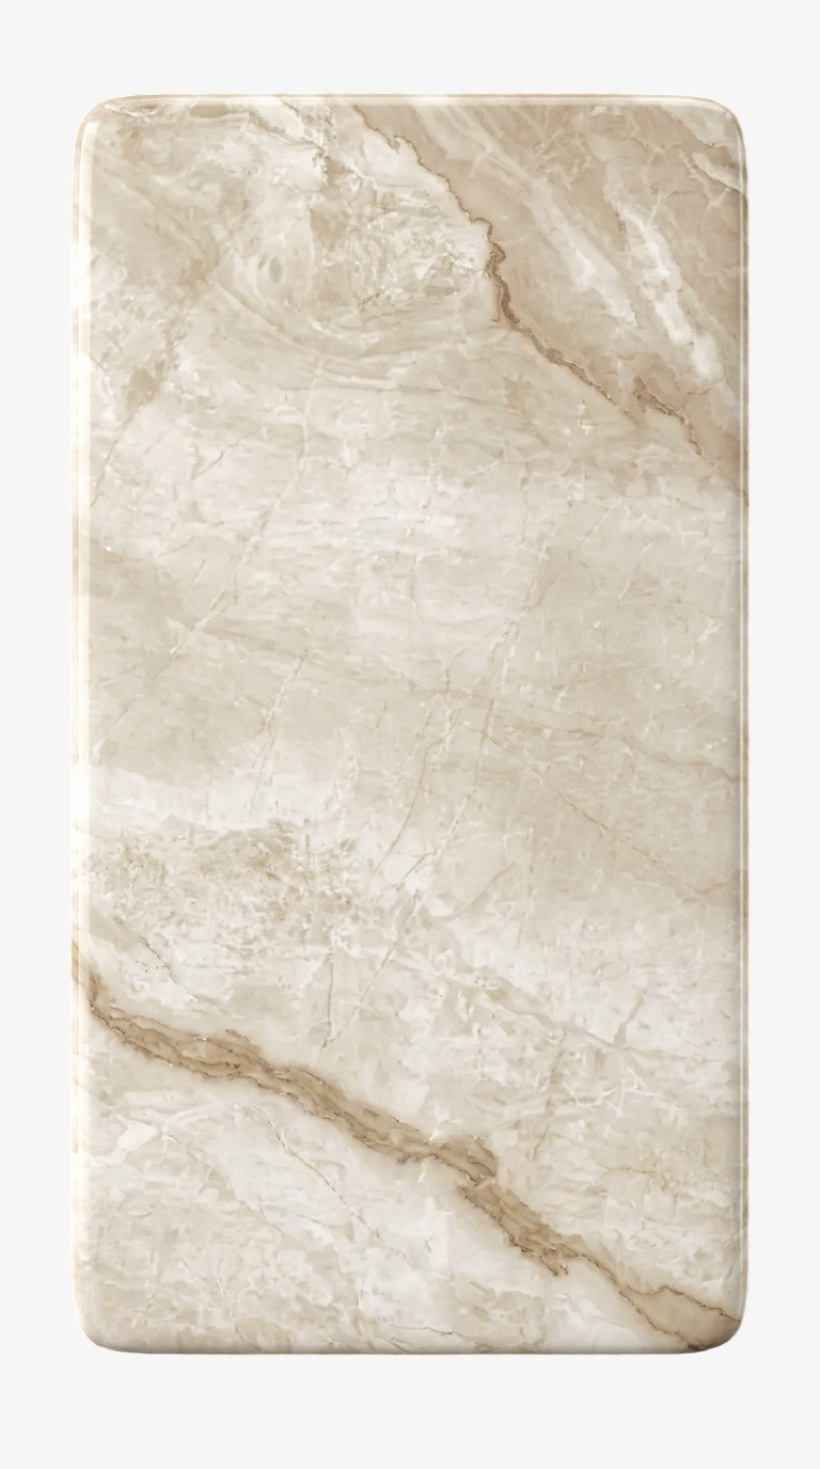
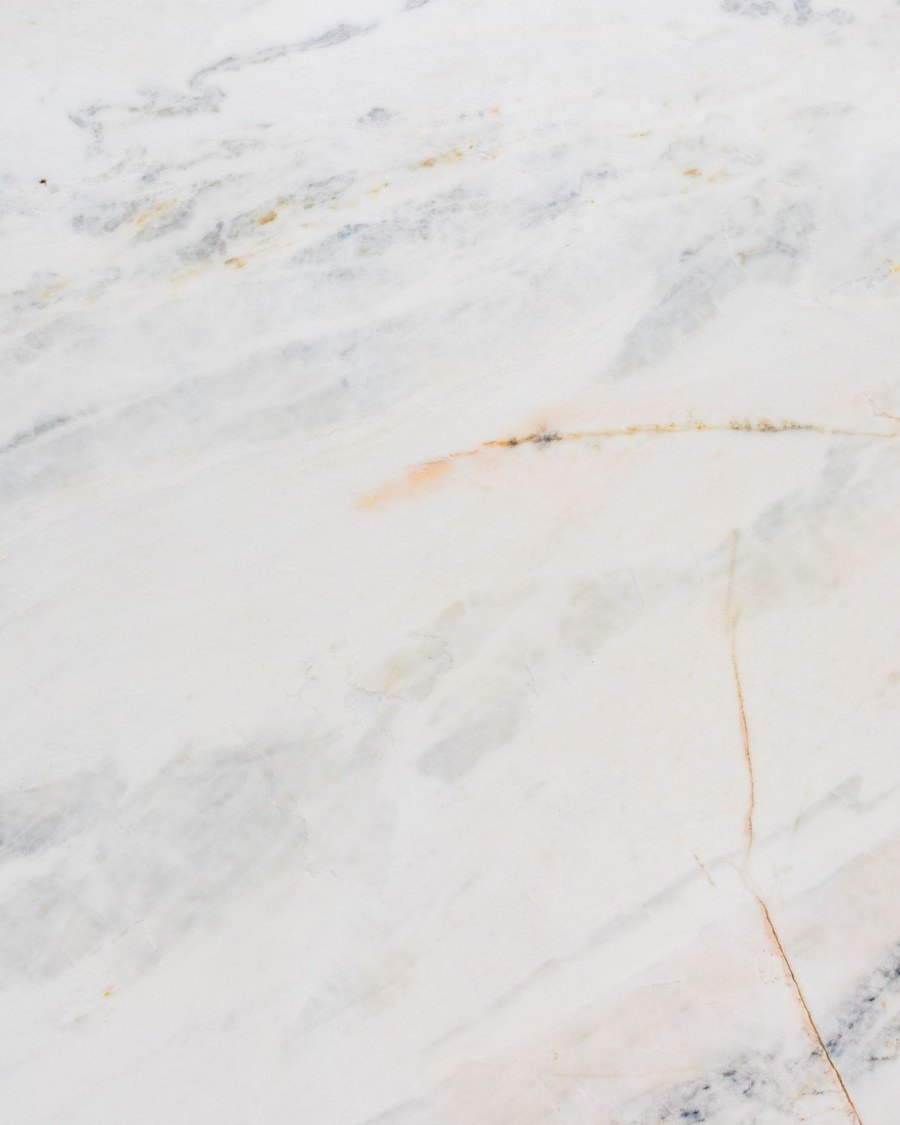
Detail-page back buttons, better Makrana image, trim home, contact headings
- Replace the breadcrumb with a reusable "Back" button on the marble
  collection, marble catalogue and furniture living-room detail pages (returns
  to the previous page, falls back to the section listing when opened directly).
- Swap the Makrana marble photo for a luminous ivory slab.
- Home: remove the "Know us" GEO answer block and the "Our boutique story"
  section.
- Contact: set the "Tell us about your perfect look" and "Your boutique near
  me in Bangalore" headings to white so they read on the dark background.

diff --git a/app/page.js b/app/page.js
@@ -135,70 +135,6 @@ export default function HomePage() {
           </div>
         </section>
 
-        {/* ===== GEO answer block ===== */}
-        <section className="section section--tight" id="about" aria-label="About Sage Thread Boutique">
-          <div className="container">
-            <div className="sec-head" data-reveal>
-              <p className="eyebrow">Know us</p>
-              <h2>Your boutique for women&apos;s fashion in Bangalore</h2>
-            </div>
-            <div className="split" style={{ gap: "2.5rem", marginTop: "2rem" }}>
-              <div data-reveal>
-                <h3 style={{ fontSize: "clamp(1.3rem,2vw,1.6rem)", marginBottom: ".75rem" }}>
-                  What is Sage Thread Boutique?
-                </h3>
-                <p className="measure" style={{ color: "var(--muted)" }}>
-                  Sage Thread Boutique is a women&apos;s fashion boutique in
-                  Bangalore specializing in designer wear, custom styling, and
-                  premium clothing. We are a destination for women who want
-                  boutique fashion — curated edits, expert fittings, and
-                  tailor-made dresses crafted in our Indiranagar atelier.
-                </p>
-              </div>
-              <div data-reveal style={{ "--d": ".1s" }}>
-                <h3 style={{ fontSize: "clamp(1.3rem,2vw,1.6rem)", marginBottom: ".75rem" }}>
-                  Where is Sage Thread Boutique located?
-                </h3>
-                <p className="measure" style={{ color: "var(--muted)" }}>
-                  We are at {BUSINESS.address.street}, {BUSINESS.address.cityAlt},{" "}
-                  {BUSINESS.address.region} {BUSINESS.address.postalCode} — in the
-                  heart of Indiranagar, one of Bangalore&apos;s finest shopping
-                  neighbourhoods.{" "}
-                  <a href="/contact" style={{ textDecoration: "underline" }}>
-                    Schedule a boutique visit
-                  </a>
-                  .
-                </p>
-              </div>
-            </div>
-            <div className="split" style={{ gap: "2.5rem", marginTop: "2rem" }}>
-              <div data-reveal>
-                <h3 style={{ fontSize: "clamp(1.3rem,2vw,1.6rem)", marginBottom: ".75rem" }}>
-                  What services does Sage Thread Boutique offer?
-                </h3>
-                <p className="measure" style={{ color: "var(--muted)" }}>
-                  Our services include women&apos;s clothing, boutique fashion,
-                  custom stitching, designer wear, ethnic wear, contemporary
-                  fashion, fashion consultation, and occasion wear. Whether you
-                  need a saree for a wedding or a tailored dress for an evening
-                  out, our stylists guide you from first sketch to final stitch.
-                </p>
-              </div>
-              <div data-reveal style={{ "--d": ".1s" }}>
-                <h3 style={{ fontSize: "clamp(1.3rem,2vw,1.6rem)", marginBottom: ".75rem" }}>
-                  Why choose Sage Thread Boutique?
-                </h3>
-                <p className="measure" style={{ color: "var(--muted)" }}>
-                  Women across Bangalore choose Sage Thread for our decade of
-                  fashion expertise, artisan partnerships, and the intimacy of a
-                  true boutique experience. We are not a department store — we
-                  are your personal fashion house in Bengaluru.
-                </p>
-              </div>
-            </div>
-          </div>
-        </section>
-
         {/* ===== Collections ===== */}
         <section className="section section--tight" id="collections">
           <div className="container">
@@ -340,48 +276,6 @@ export default function HomePage() {
                   <div className="lbl">Would return</div>
                 </div>
               </div>
-            </div>
-          </div>
-        </section>
-
-        {/* ===== E-E-A-T: Boutique story ===== */}
-        <section className="section section--tight" id="story">
-          <div className="container split">
-            <div data-reveal>
-              <p className="eyebrow">Our boutique story</p>
-              <h2 style={{ fontSize: "clamp(2rem,4.4vw,3.4rem)" }}>
-                A decade of dressing
-                <br />
-                Bangalore&apos;s women
-              </h2>
-              <p className="lead mt-2 measure">
-                Sage Thread began in 2014 with a simple conviction: Bangalore
-                deserved a women&apos;s boutique that treated fashion as craft,
-                not commodity. What started as a small atelier in Indiranagar
-                has become a trusted name for designer wear, ethnic collections,
-                and custom stitching across Karnataka.
-              </p>
-              <p className="mt-2 measure" style={{ color: "var(--muted)" }}>
-                Our design philosophy honours Indian artistry while embracing
-                contemporary silhouettes — so every client leaves feeling seen,
-                styled, and beautifully dressed.
-              </p>
-            </div>
-            <div data-reveal="right">
-              <p className="eyebrow">Quality standards</p>
-              <h3 style={{ fontSize: "clamp(1.5rem,3vw,2rem)", marginTop: ".5rem" }}>
-                The Sage Thread promise
-              </h3>
-              <p className="measure mt-2" style={{ color: "var(--muted)" }}>
-                We inspect every seam, source fabrics from verified mills and
-                weavers, and stand behind our tailoring with complimentary
-                fittings. Customer experience is not an afterthought — it is the
-                foundation of our reputation as one of Bangalore&apos;s best
-                boutiques.
-              </p>
-              <a href="/contact" className="btn btn--ghost mt-3">
-                Book a Fashion Consultation <span className="arrow">→</span>
-              </a>
             </div>
           </div>
         </section>

diff --git a/components/BackButton.css b/components/BackButton.css
@@ -1,0 +1,39 @@
+/* Back button — replaces the breadcrumb at the top of detail pages. A quiet
+   outlined pill that inherits each page theme's muted tone and accent, so it
+   reads the same on the marble and furniture pages. */
+
+.backbtn {
+  display: inline-flex;
+  align-items: center;
+  gap: .5rem;
+  margin-bottom: clamp(1.4rem, 3vw, 2.4rem);
+  padding: .55rem 1.15rem .55rem .95rem;
+  border: 1px solid currentColor;
+  border-radius: 999px;
+  background: transparent;
+  cursor: pointer;
+  font-family: var(--font-body);
+  font-size: .74rem;
+  font-weight: 500;
+  letter-spacing: .14em;
+  text-transform: uppercase;
+  color: var(--muted, #8a7d6c);
+  opacity: .82;
+  transition: color .35s var(--ease), border-color .35s var(--ease),
+              opacity .35s var(--ease);
+}
+.backbtn__arrow {
+  font-size: 1.05em;
+  line-height: 1;
+  transition: transform .35s var(--ease);
+}
+.backbtn:hover {
+  opacity: 1;
+  color: var(--accent);
+  border-color: var(--accent);
+}
+.backbtn:hover .backbtn__arrow { transform: translateX(-3px); }
+.backbtn:focus-visible {
+  outline: 2px solid var(--accent);
+  outline-offset: 3px;
+}

diff --git a/app/marble/catalogue/[slug]/page.js b/app/marble/catalogue/[slug]/page.js
@@ -1,8 +1,8 @@
 import "../../../marble.css";
-import Link from "next/link";
 import { notFound } from "next/navigation";
 import { Printer } from "lucide-react";
 import Header from "@/components/Header";
+import BackButton from "@/components/BackButton";
 import Flipbook from "@/components/Flipbook";
 import JsonLd from "@/components/JsonLd";
 import { breadcrumbSchema, webPageSchema } from "@/lib/schema";
@@ -60,13 +60,7 @@ export default async function CataloguePage({ params }) {
 
       <main className="catalogue">
         <div className="container">
-          <nav className="collection__crumbs" aria-label="Breadcrumb">
-            <Link href="/marble">Marble</Link>
-            <span aria-hidden="true">/</span>
-            <Link href="/marble#catalogues">Catalogues</Link>
-            <span aria-hidden="true">/</span>
-            <span>{c.title}</span>
-          </nav>
+          <BackButton fallback="/marble#catalogues" />
 
           <header className="catalogue__head">
             <p className="eyebrow">{c.eyebrow}</p>

diff --git a/app/contact/page.js b/app/contact/page.js
@@ -68,7 +68,7 @@ export default function ContactPage() {
           <div className="container contact-grid">
             <div data-reveal>
               <p className="eyebrow">Connect with our designers</p>
-              <h2 style={{ fontSize: "clamp(2rem,4.4vw,3.2rem)" }}>
+              <h2 style={{ fontSize: "clamp(2rem,4.4vw,3.2rem)", color: "#fff" }}>
                 Tell us about
                 <br />
                 your perfect look
@@ -220,7 +220,7 @@ export default function ContactPage() {
           <div className="container">
             <div className="sec-head" data-reveal>
               <p className="eyebrow">Find us</p>
-              <h2>Your boutique near me in Bangalore</h2>
+              <h2 style={{ color: "#fff" }}>Your boutique near me in Bangalore</h2>
               <p className="measure-sm mt-2" style={{ color: "var(--muted)" }}>
                 Sage Thread Boutique is in Indiranagar — centrally located for
                 women across Bengaluru searching for a designer boutique, ethnic

diff --git a/app/marble/collection/[slug]/page.js b/app/marble/collection/[slug]/page.js
@@ -2,6 +2,7 @@ import "../../../marble.css";
 import Link from "next/link";
 import { notFound } from "next/navigation";
 import Header from "@/components/Header";
+import BackButton from "@/components/BackButton";
 import JsonLd from "@/components/JsonLd";
 import { breadcrumbSchema, webPageSchema } from "@/lib/schema";
 import { SITE_URL } from "@/lib/business";
@@ -61,13 +62,7 @@ export default async function CollectionDetailPage({ params }) {
 
       <main className="cdetail">
         <div className="container">
-          <nav className="collection__crumbs" aria-label="Breadcrumb">
-            <Link href="/marble">Marble</Link>
-            <span aria-hidden="true">/</span>
-            <Link href="/marble#curated">Curated Collections</Link>
-            <span aria-hidden="true">/</span>
-            <span>{c.name}</span>
-          </nav>
+          <BackButton fallback="/marble#curated" />
 
           <div className="cdetail__grid">
             <div className="cdetail__media" data-reveal="left">

diff --git a/app/furniture/living-room/page.js b/app/furniture/living-room/page.js
@@ -1,7 +1,7 @@
 import "../../furniture.css";
-import Link from "next/link";
 import Header from "@/components/Header";
 import ProductCard from "@/components/ProductCard";
+import BackButton from "@/components/BackButton";
 import JsonLd from "@/components/JsonLd";
 import { breadcrumbSchema, webPageSchema } from "@/lib/schema";
 import { SITE_URL } from "@/lib/business";
@@ -107,11 +107,7 @@ export default function LivingRoomPage() {
 
       <main className="collection">
         <div className="container">
-          <nav className="collection__crumbs" aria-label="Breadcrumb">
-            <Link href="/furniture">Furniture</Link>
-            <span aria-hidden="true">/</span>
-            <span>Living Room</span>
-          </nav>
+          <BackButton fallback="/furniture" />
 
           <header className="collection__head" data-reveal>
             <p className="eyebrow">Sage Thread · Furniture</p>

diff --git a/components/BackButton.js b/components/BackButton.js
@@ -1,0 +1,28 @@
+"use client";
+
+/* A small "Back" button that stands in for the breadcrumb on detail pages.
+   It returns to the previous page when there's history to go back to, and
+   otherwise falls back to the section's listing — so a directly-opened or
+   shared link still lands somewhere sensible. */
+
+import { useRouter } from "next/navigation";
+import "./BackButton.css";
+
+export default function BackButton({ fallback = "/", label = "Back" }) {
+  const router = useRouter();
+
+  const goBack = () => {
+    if (typeof window !== "undefined" && window.history.length > 1) {
+      router.back();
+    } else {
+      router.push(fallback);
+    }
+  };
+
+  return (
+    <button type="button" className="backbtn" onClick={goBack}>
+      <span className="backbtn__arrow" aria-hidden="true">←</span>
+      {label}
+    </button>
+  );
+}
